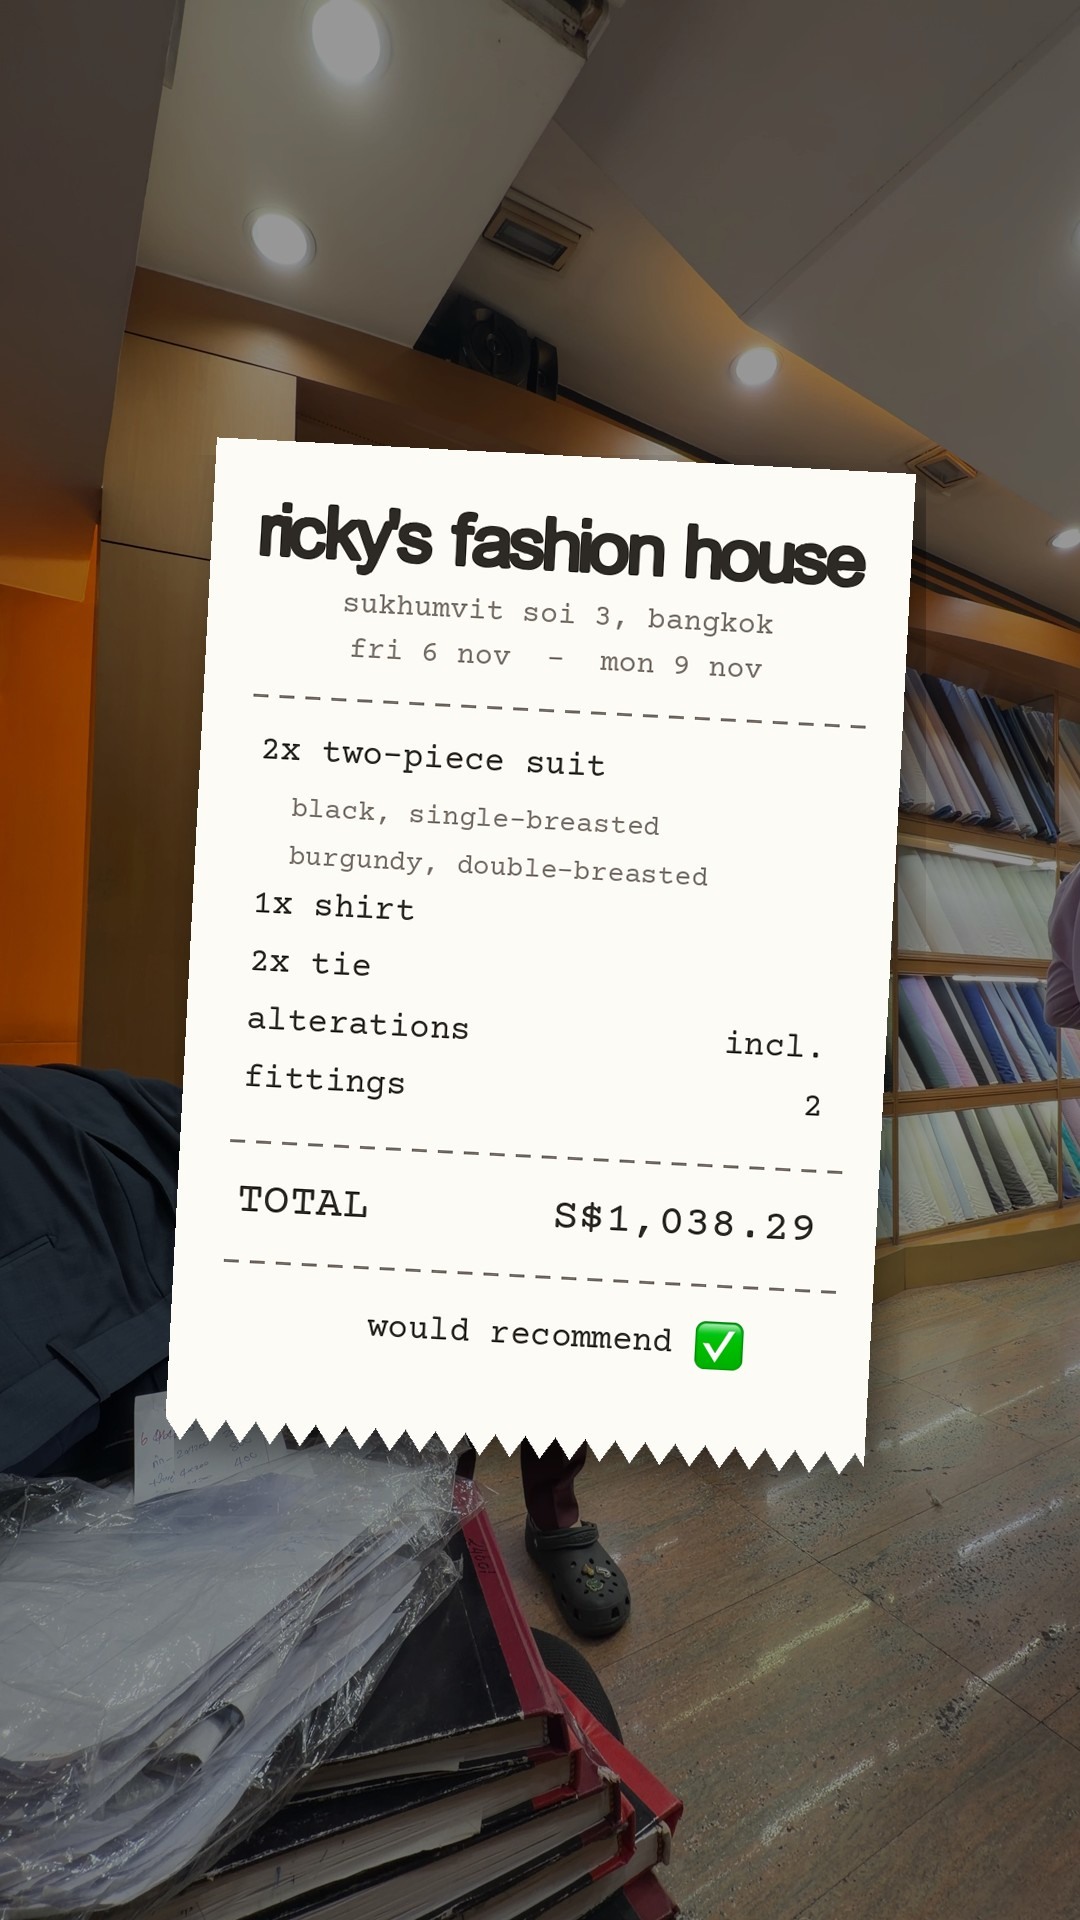
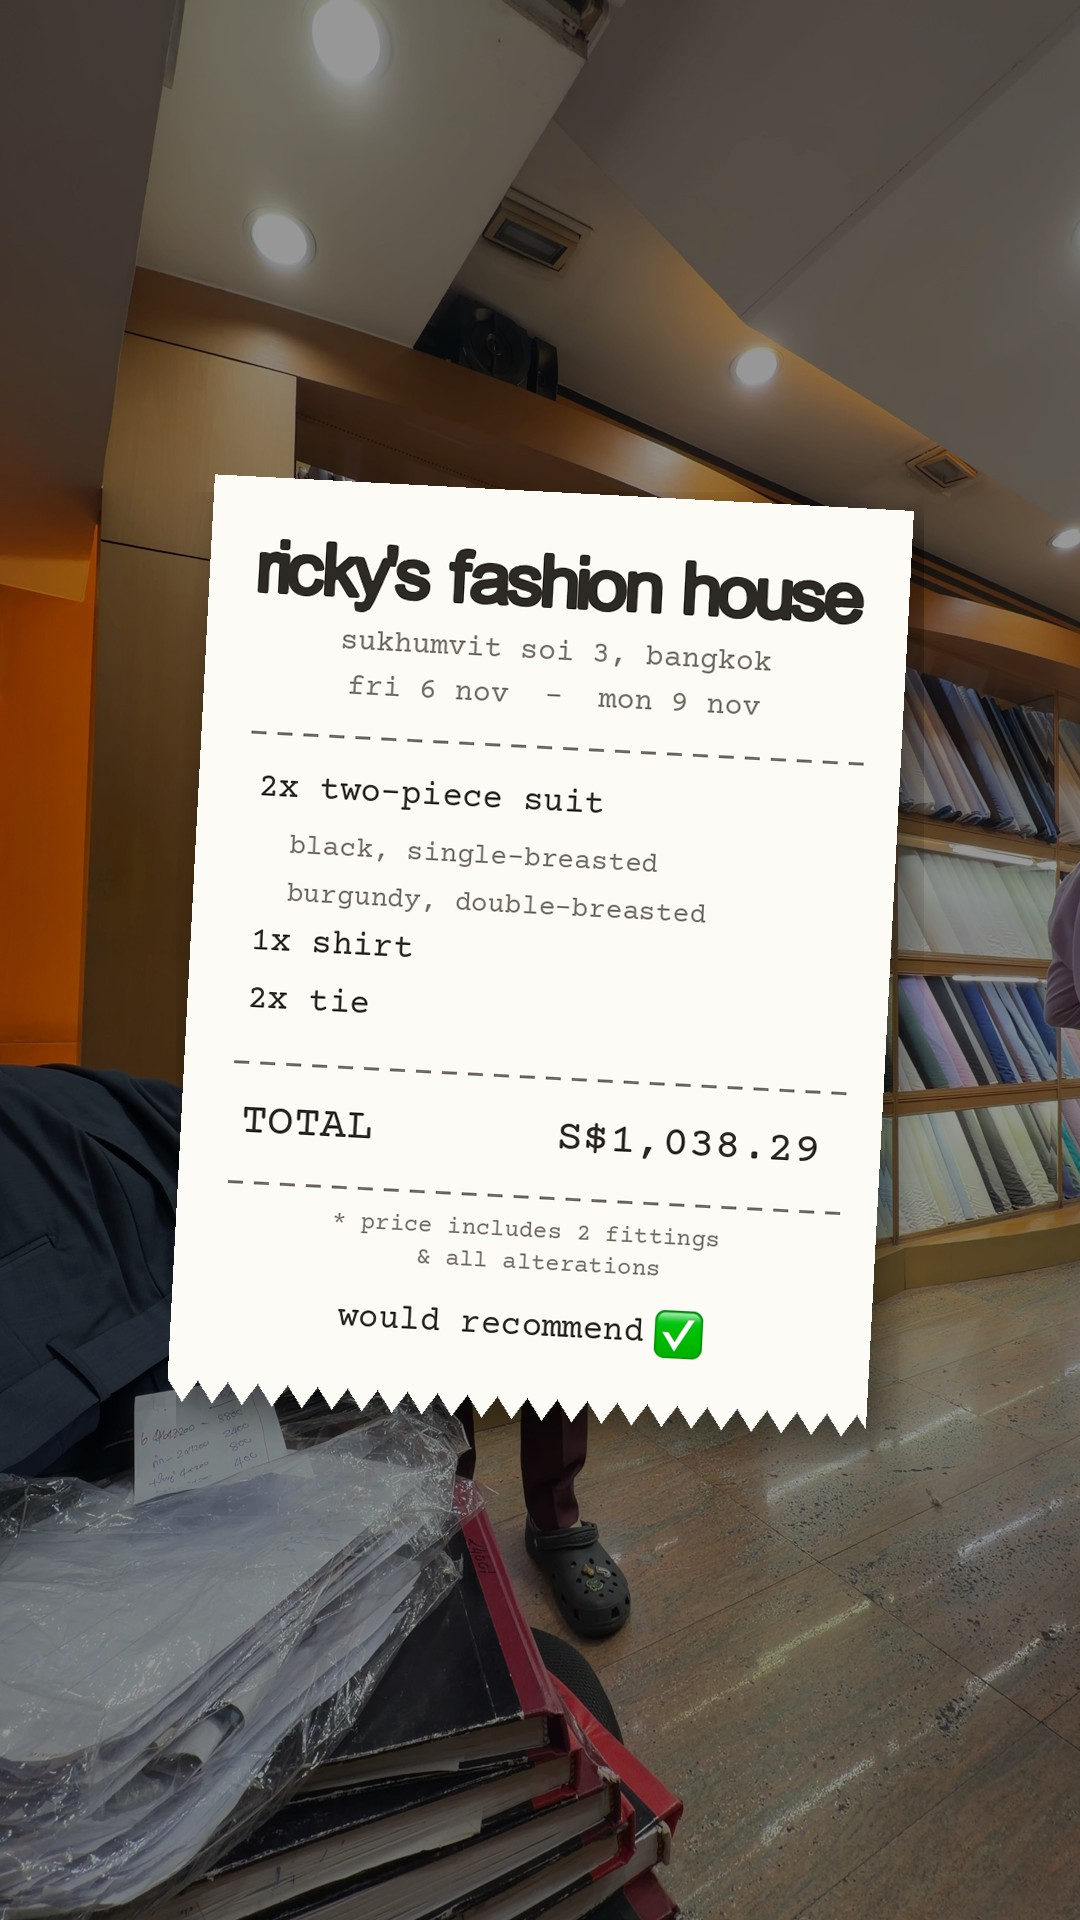
Receipt: fittings as fine print, centred recommend line
Claude-Session: https://claude.ai/code/session_01T9Xb58pVenXMcWoNtDPL6M

Changed region(s): [[0.1528, 0.2188, 0.8556, 0.7812], [0.6722, 0.5312, 0.7333, 0.5625]]

diff --git a/episodes/ep01_suit/infocard_options.py b/episodes/ep01_suit/infocard_options.py
@@ -39,7 +39,7 @@ im.convert('RGB').save(OUT / 'info_A_tags.jpg', quality=90)
 # --- B: receipt -----------------------------------------------------------------
 im = base(0.6)
 mono = lambda n: ImageFont.truetype(str(FONTS / 'CourierPrime-Regular.ttf'), n)
-rw, rh = 700, 980
+rw, rh = 700, 905
 r = Image.new('RGBA', (rw, rh + 30), (0, 0, 0, 0))
 d = ImageDraw.Draw(r)
 d.rectangle((0, 0, rw, rh), fill=(253, 251, 245))
@@ -55,7 +55,7 @@ d.text((rw / 2, 205), 'fri 6 nov  –  mon 9 nov', font=mono(30), fill=soft, anc
 dash = lambda y: [d.line((x, y, x + 14, y), fill=soft, width=3) for x in range(50, rw - 50, 26)]
 dash(255)
 items = [('2x two-piece suit', ''), ('   black, single-breasted', ''), ('   burgundy, double-breasted', ''),
-         ('1x shirt', ''), ('2x tie', ''), ('alterations', 'incl.'), ('fittings', '2')]
+         ('1x shirt', ''), ('2x tie', '')]
 y = 310
 for a, b in items:
     small = a.startswith('   ')
@@ -68,8 +68,12 @@ dash(y + 5)
 d.text((60, y + 65), 'TOTAL', font=mono(44), fill=ink, anchor='lm')
 d.text((rw - 60, y + 65), 'S$1,038.29', font=mono(44), fill=ink, anchor='rm')
 dash(y + 125)
-d.text((rw / 2, y + 185), 'would recommend', font=mono(34), fill=ink, anchor='mm')
-r.alpha_composite(emoji('✅', 48), (int(rw / 2 + 175), int(y + 161)))
+d.text((rw / 2, y + 160), '* price includes 2 fittings', font=mono(24), fill=soft, anchor='mm')
+d.text((rw / 2, y + 192), '  & all alterations', font=mono(24), fill=soft, anchor='mm')
+rec, ef, eg = 'would recommend', mono(34), 48                # centre text + emoji as one unit
+rx = (rw - (ef.getlength(rec) + 12 + eg)) / 2
+d.text((rx, y + 255), rec, font=ef, fill=ink, anchor='lm')
+r.alpha_composite(emoji('✅', eg), (int(rx + ef.getlength(rec) + 12), int(y + 255 - eg / 2)))
 r = r.rotate(-3, resample=Image.BICUBIC, expand=True)
 sh = Image.new('RGBA', r.size, (0, 0, 0, 0))
 sh.paste((0, 0, 0, 110), mask=r.split()[3])
